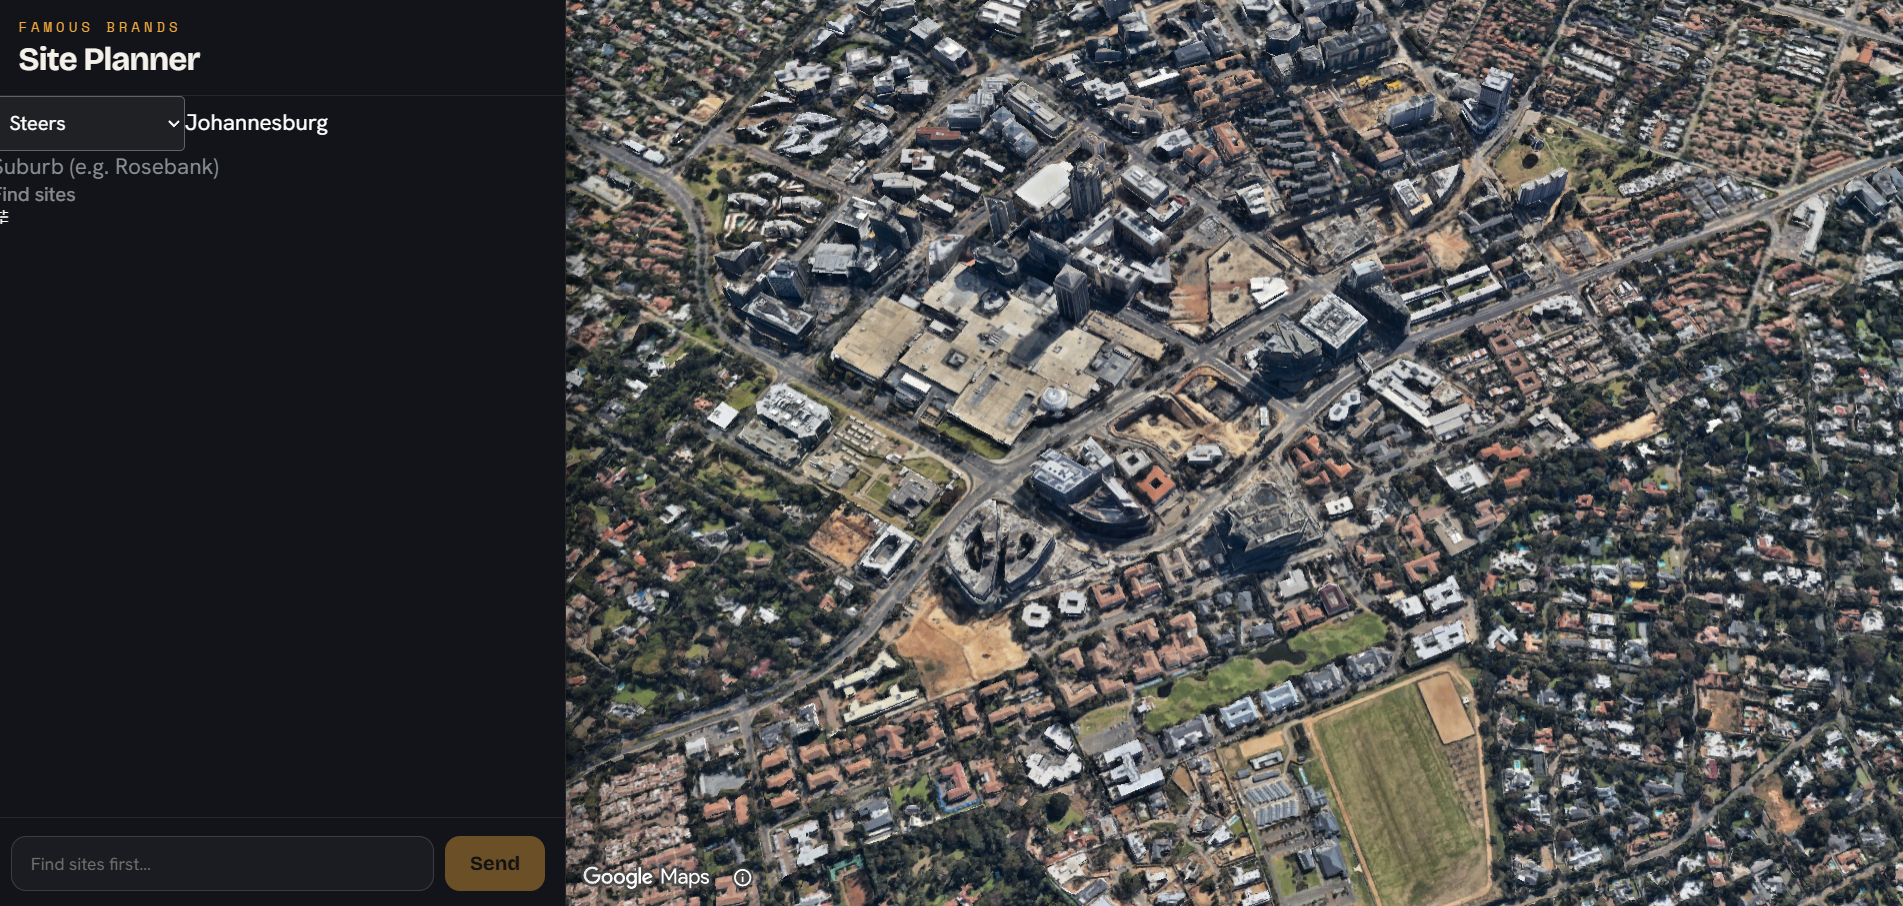
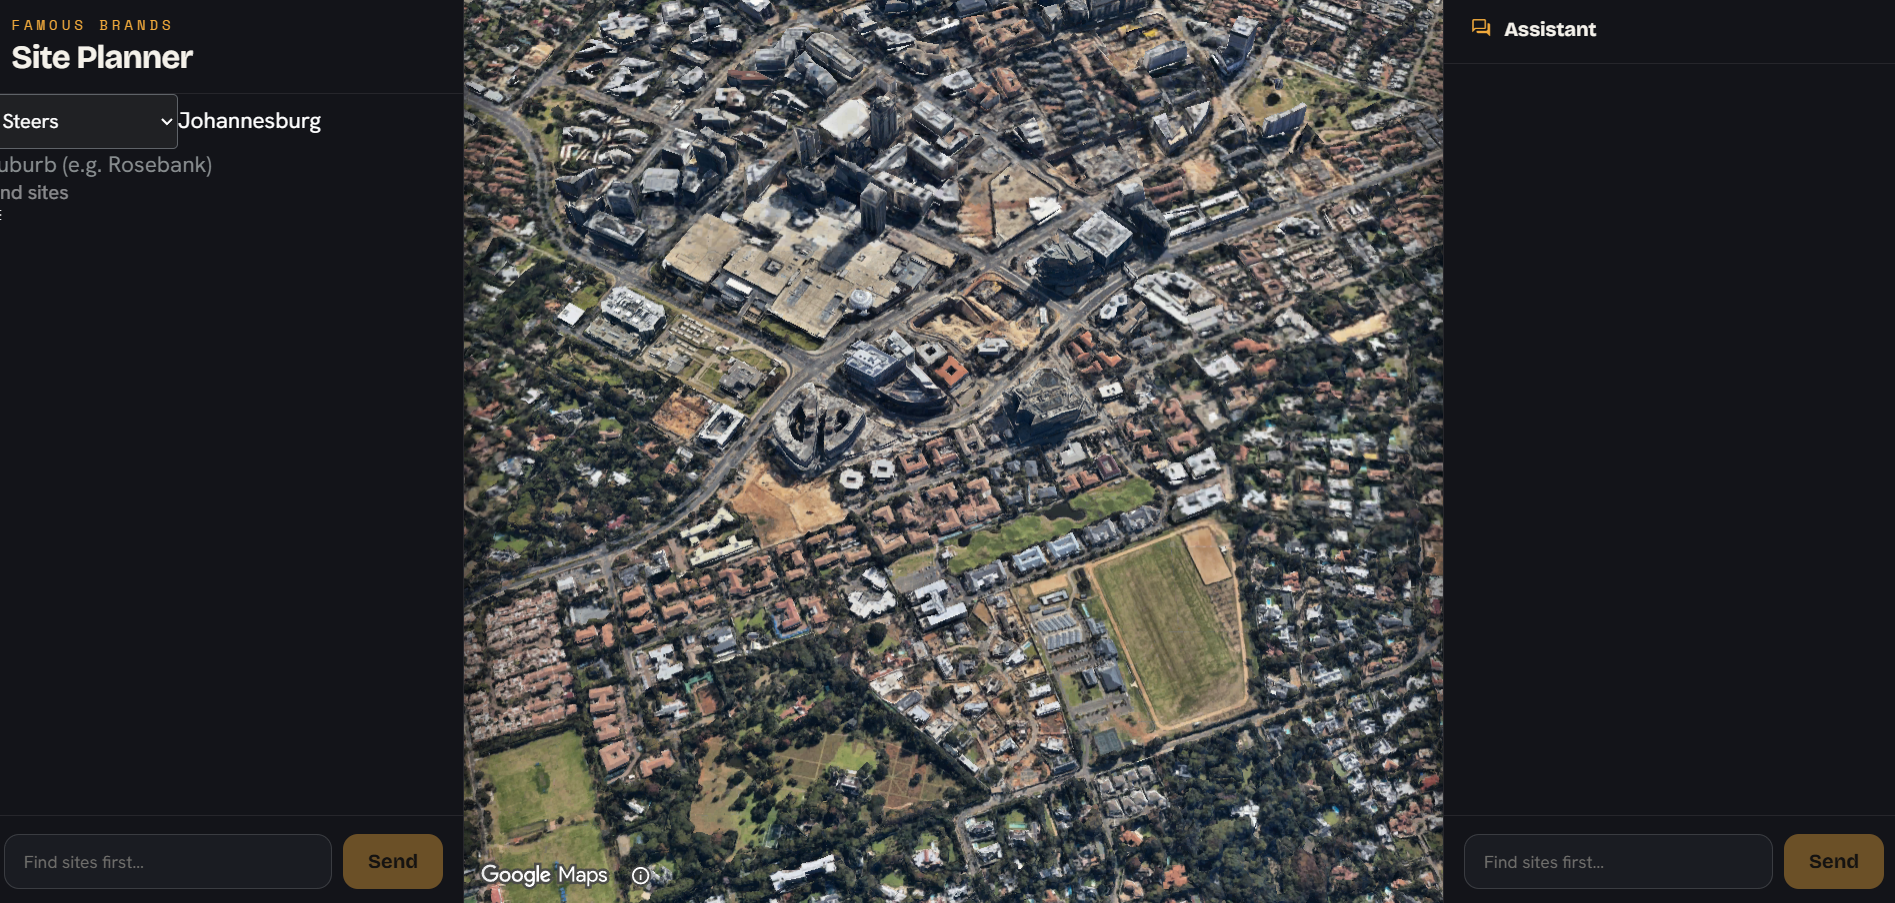
ui: widen left rail + roomier search/spacing to fix cramping

diff --git a/index.css b/index.css
@@ -1182,7 +1182,7 @@ gmp-map-3d {
 .rail {
   position: relative;
   z-index: 5;
-  flex: 0 0 clamp(300px, 25vw, 400px);
+  flex: 0 0 clamp(360px, 27vw, 460px);
   display: flex;
   flex-direction: column;
   height: 100vh;
@@ -1263,7 +1263,7 @@ gmp-map-3d {
 
 /* header */
 .rail-head {
-  padding: 20px 22px 15px;
+  padding: 24px 26px 18px;
   border-bottom: 1px solid var(--fp-line);
 }
 .brand-mark {
@@ -1289,31 +1289,24 @@ gmp-map-3d {
 
 /* search */
 .search {
-  padding: 16px 22px;
+  padding: 20px 26px;
   display: flex;
   flex-direction: column;
-  gap: 12px;
+  gap: 15px;
   border-bottom: 1px solid var(--fp-line);
 }
 .field {
   display: flex;
   flex-direction: column;
-  gap: 5px;
+  gap: 7px;
   min-width: 0;
 }
 .field-label {
   font-size: 11px;
-  letter-spacing: 0.12em;
+  letter-spacing: 0.14em;
   text-transform: uppercase;
-  color: var(--fp-text-faint);
+  color: var(--fp-text-dim);
   font-weight: 600;
-}
-.field-row {
-  display: flex;
-  gap: 10px;
-}
-.field-row .field {
-  flex: 1;
 }
 .search select,
 .search input {
@@ -1321,9 +1314,9 @@ gmp-map-3d {
   color: var(--fp-text);
   border: 1px solid var(--fp-line-strong);
   border-radius: 10px;
-  padding: 10px 12px;
+  padding: 12px 14px;
   font-family: var(--fp-body);
-  font-size: 14px;
+  font-size: 15px;
   width: 100%;
   box-sizing: border-box;
 }
@@ -1528,7 +1521,7 @@ gmp-map-3d {
   flex: 1 1 auto;
   min-height: 0;
   overflow-y: auto;
-  padding: 24px 22px;
+  padding: 24px 26px;
   animation: fp-fade 0.4s ease;
 }
 .onboard-lead {
@@ -1590,7 +1583,7 @@ gmp-map-3d {
 
 /* ranked list */
 .ranked {
-  padding: 16px;
+  padding: 18px 22px 22px;
   display: flex;
   flex-direction: column;
   gap: 14px;